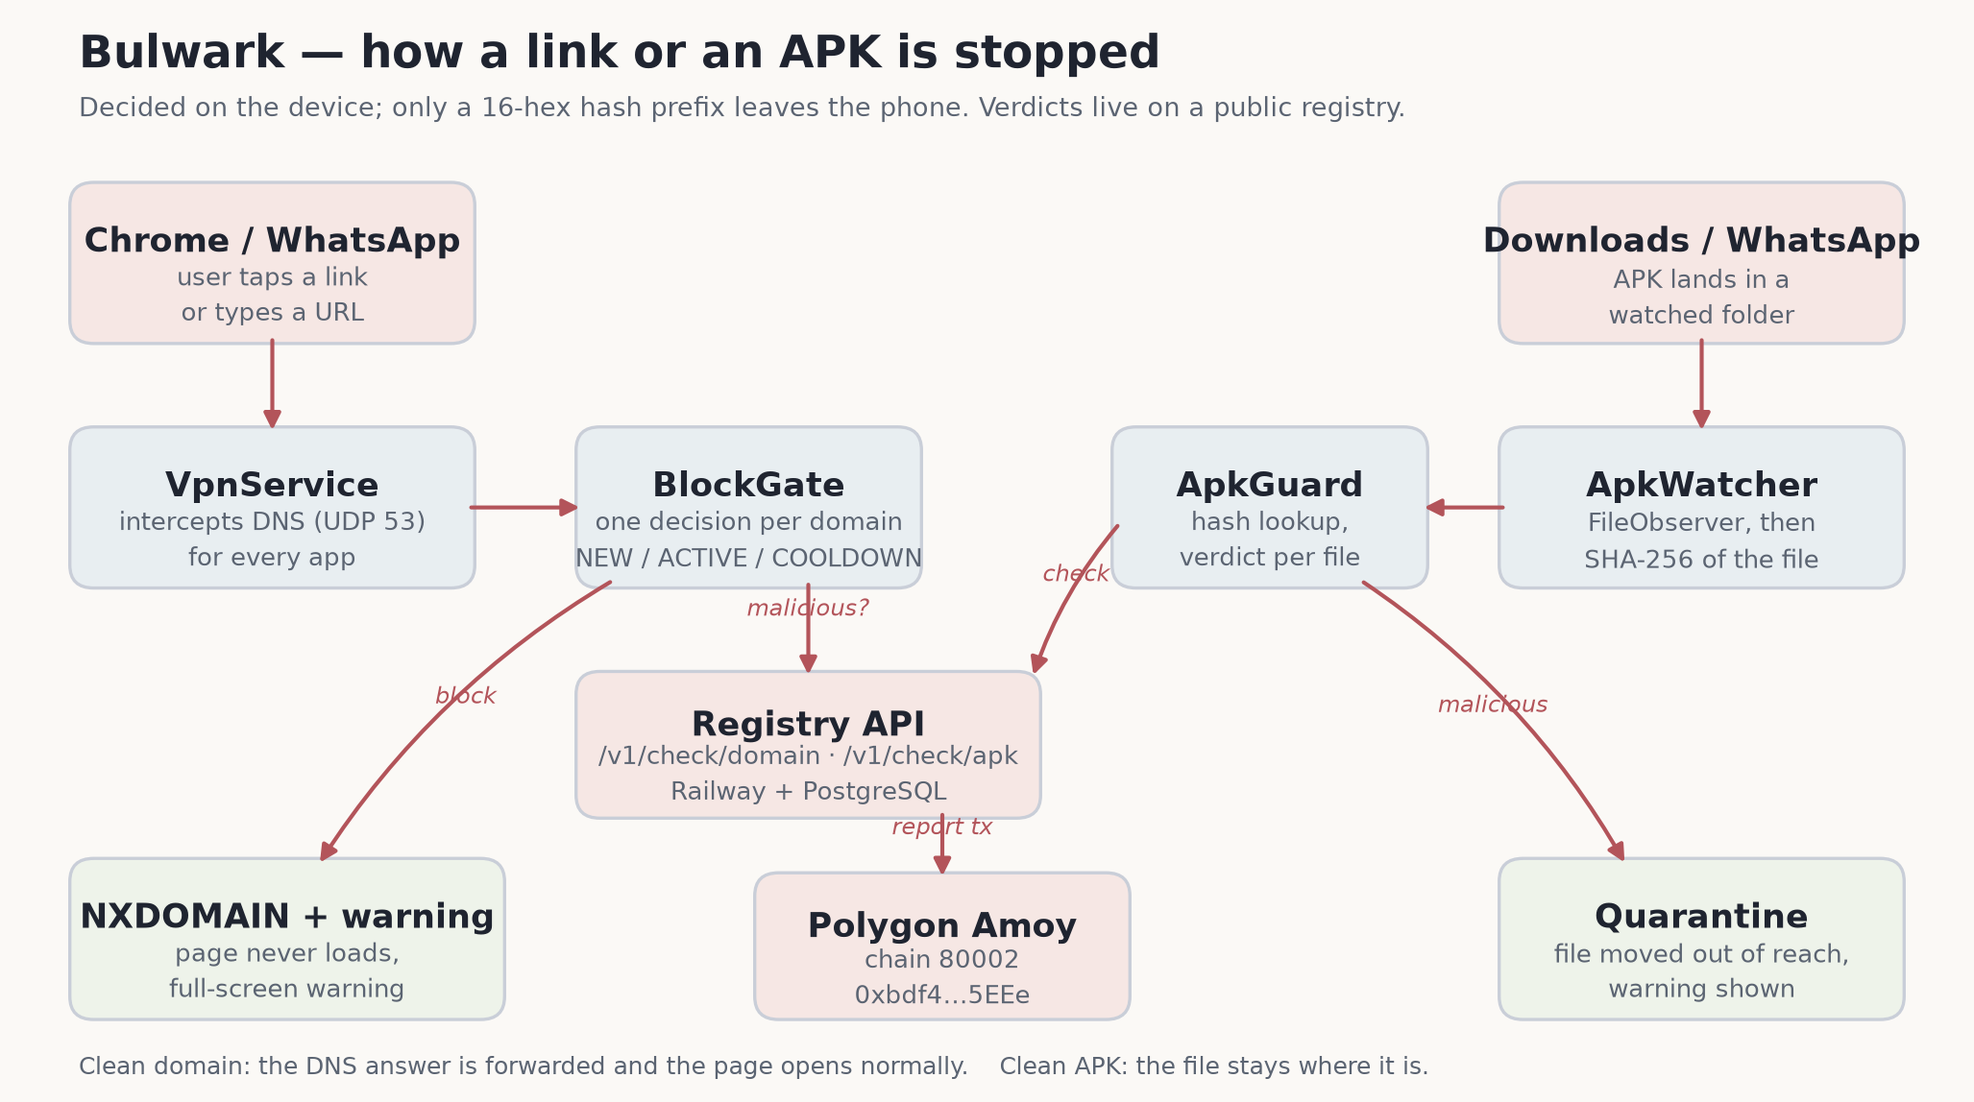
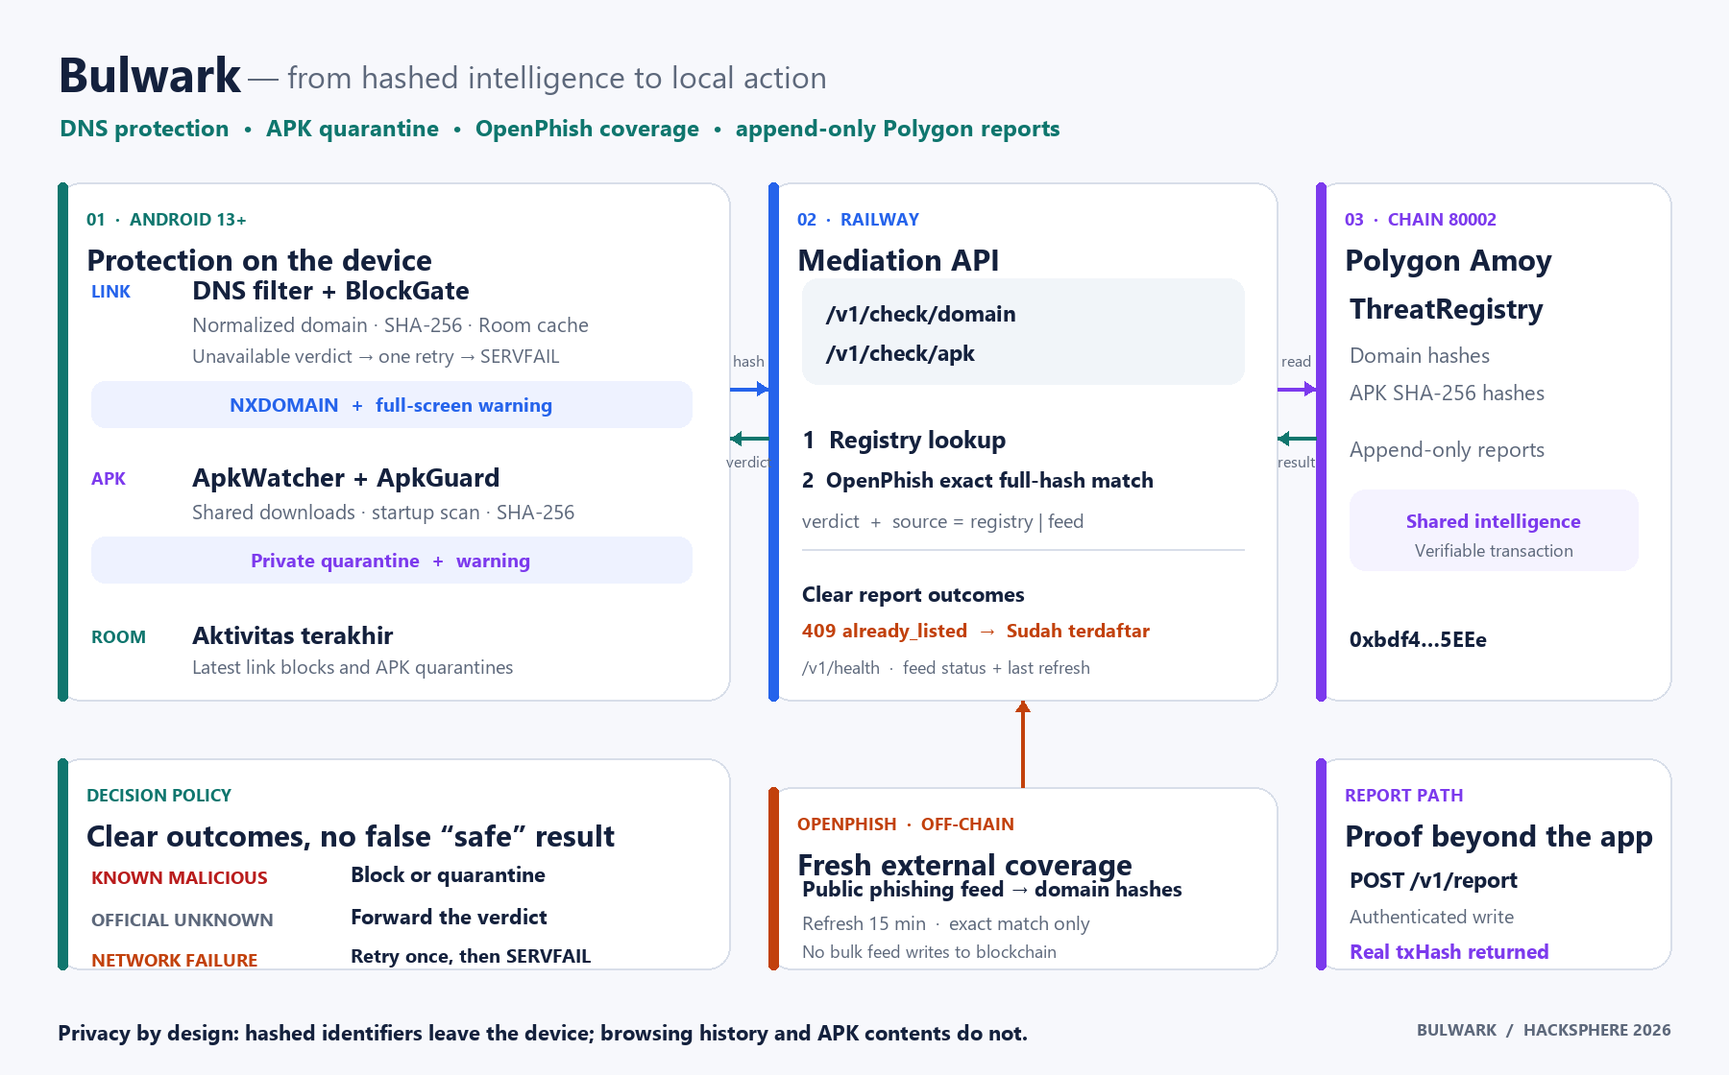
docs: refresh product architecture and evaluation guide

diff --git a/README.md b/README.md
@@ -1,162 +1,202 @@
-# Bulwark
+<div align="center">
 
-**Stop scams before the tap.**
+# 🛡 Bulwark
+### Protection before the tap becomes a compromise.
 
-Bulwark is an Android shield that closes scam links at the DNS layer and moves known-malicious APKs into quarantine before they can be installed. Verdicts live in a public, append-only registry on Polygon Amoy, so a report from one phone protects every phone that runs Bulwark.
+**An Android security companion that warns users about known scam links, quarantines known-malicious APK downloads, and turns new reports into shared threat intelligence.**
 
-Hacksphere 2026 · Team *Aku Mau Skin Kuronami Vandal*
+Built for **Hacksphere 2026** · Team *Aku Mau Skin Kuronami Vandal* · Android 13+ · Kotlin · Node.js · Polygon Amoy
 
----
+[Download the app](https://github.com/royaldinan/Bulwark/releases/latest/download/bulwark-demo.apk) · [Architecture](#architecture) · [Live API](https://bulwark-production-d29c2d86.up.railway.app/v1/health) · [Registry contract](https://amoy.polygonscan.com/address/0xbdf4a4db5C00f2172435940efD8f460ff8f15EEe)
 
-## Download the demo build
-
-[**bulwark-demo.apk**](https://github.com/royaldinan/Bulwark/releases/latest/download/bulwark-demo.apk) · Android 8.0+ · `id.bulwark`
-
-Install it, open the app once, and grant the three permissions it asks for: VPN, display over other apps, and all-files access. The tunnel starts immediately; the home screen shows *Perlindungan aktif*.
-
-This is a debug-signed demo build pointed at the live Railway API. Source builds are described under [Quick start](#quick-start).
+</div>
 
 ---
 
-## The problem
+## Why Bulwark
+
+A single WhatsApp message can move a victim from a familiar chat to a fake giveaway, a credential-harvesting page, or an APK download in seconds. Centralized blocklists protect a browser; Bulwark brings the decision closer to the person and lets every user strengthen the same shared registry.
 
 | Signal | Value |
 | --- | --- |
 | Reported scam losses in Indonesia (14 months) | **IDR 9.1T**, under 2% recovered |
-| Scam links that arrive through chat apps | **89%** via WhatsApp |
-| People who feel confident they can spot a scam, yet were scammed | **31%** |
-| Adults who met a scam in the last 12 months | **66%** |
-
-Blocklists exist, but they act *after* someone reports. The tap happens first — and an APK installed once can read SMS OTPs in seconds. Bulwark checks at the moment a connection or a file arrives, not when the user becomes suspicious.
+| Scam links arriving through chat apps | **89%** via WhatsApp |
+| Adults who encountered a scam in the last 12 months | **66%** |
 
 Sources: OJK IASC (2026), GASA State of Scams Indonesia 2025, PANDI IDADX Q4 2025, APJII 2025.
 
----
+## What the MVP delivers
 
-## How it works
+| Protection | User experience | Enforcement |
+| --- | --- | --- |
+| **Scam-link protection** | A full-screen warning appears over the current app. The user can return to safety or make an informed choice to continue. | A local DNS filter answers known-malicious domains with NXDOMAIN and deduplicates repeated warnings. |
+| **APK download quarantine** | A clear warning identifies the threat without technical jargon. | A known-malicious APK is removed from the watched download location and moved to app-private quarantine so the installer cannot open the original file. |
+| **Expanded threat coverage** | Protection benefits from intelligence beyond reports made by Bulwark users. | Registry lookups are complemented by an off-chain OpenPhish domain index using exact SHA-256 matches. |
+| **Resilient verdict handling** | A temporary network problem is not silently presented as a safe result. | An unavailable verdict receives one bounded retry, then fails safely; an official UNKNOWN verdict remains distinct. |
+| **Useful report feedback** | Duplicate submissions show **“Sudah terdaftar”**, not a misleading connection error. | The API returns a dedicated `409 already_listed` outcome while preserving real registry errors. |
+| **Recent protection activity** | The home screen shows the latest link blocks and APK quarantines with their source and time. | Events come from Room on the device, not hardcoded dashboard data. |
 
-**1 · Detect**
-A local `VpnService` tunnel receives every DNS lookup on the device. A `FileObserver` watches the Download folder and the WhatsApp documents folder; each new `.apk` is hashed with streaming SHA-256.
+## Product preview
 
-**2 · Decide**
-The device cache answers in milliseconds. On a miss the app asks the registry through the mediation API. Only a 16-hex prefix of the hash leaves the phone; unknown domains are forwarded to the upstream resolver untouched.
-
-**3 · Act**
-- **Link:** no DNS answer is returned, so the page never loads. A full-screen warning names the domain and offers *stay safe* or *continue at your own risk* (a 5-minute pass, then the gate blocks again).
-- **APK:** a malicious package is moved out of the folder into the app's private quarantine, so it can never be installed.
-- **Report:** a domain or APK hash submitted from the app becomes a public on-chain entry with a real transaction hash.
-
----
+<p align="center">
+  <img src="docs/screens/home.png" width="46%" alt="Bulwark home and protection status" />
+  <img src="docs/screens/warning.png" width="46%" alt="Bulwark malicious link warning" />
+</p>
 
 ## Architecture
 
-![Bulwark architecture: DNS interception and APK watcher feeding on-device decisions, the registry API and Polygon Amoy](docs/architecture.png)
+![Bulwark system architecture](docs/architecture.png)
 
-**Android** — Kotlin, Jetpack Compose, Room, `VpnService`, `FileObserver`, streaming SHA-256.
-**Backend** — Node.js/Express mediation API in front of the registry, in-process cache, request validation, rate limiting.
-**Contracts** — `Registry.sol`: append-only verdicts, owner-gated writes, no delete path.
+### From a link to a decision
 
----
+1. An app resolves a domain through Bulwark’s local, permission-based DNS filter.
+2. The domain is normalized and hashed with SHA-256. The device checks its Room cache before making a network request.
+3. The mediation API checks the shared Polygon Amoy registry. On a registry miss, it checks the current OpenPhish domain-hash index.
+4. A known-malicious verdict returns a warning and NXDOMAIN. A verified verdict is cached for subsequent lookups.
+5. A transient unavailable verdict is retried once; it is never cached as UNKNOWN.
 
-## On a real phone
+### From an APK download to quarantine
 
-<table>
-<tr>
-<td width="50%"><img src="docs/screens/home.png" alt="Bulwark home: protection active, blocked links and quarantined APKs"><br><sub>Home: protection active, live counters.</sub></td>
-<td width="50%"><img src="docs/screens/warning.png" alt="Bulwark warning: high-risk link with the domain name"><br><sub>Warning: the domain is named before the page loads.</sub></td>
-</tr>
-</table>
+1. `ApkWatcher` observes supported shared download folders, including folders created after protection starts.
+2. New and already-present APKs are hashed locally with SHA-256.
+3. `ApkGuard` checks the hash against the shared registry and caches the result.
+4. A known-malicious file is moved into app-private quarantine and recorded in Room. The user sees a warning and the event appears under **Aktivitas terakhir**.
 
-Every claim below was executed on an Infinix X6853 (Android 14) with the tunnel connected (`VPN CONNECTED extra: VPN:id.bulwark`); each result is backed by a screen dump **and** a logcat line or a database row.
+### Shared intelligence, without putting every feed entry on-chain
 
-| What | Result |
+The Polygon registry stores community-reported domain and APK hashes. OpenPhish is imported into an off-chain exact-hash index and refreshed every 15 minutes. This keeps lookups fast while retaining an append-only, independently verifiable reporting trail.
+
+The phone sends hashed identifiers to the mediation API—not browsing history or APK contents. Link events, APK events, cache entries, and recent activity remain in the device’s Room database.
+
+## Live, verifiable evidence
+
+| Check | Result |
 | --- | --- |
-| Scam link in Chrome | Blocked at DNS (`NXDOMAIN`), full-screen warning, `link_event` saved, counter +1 |
-| Scam link tapped inside WhatsApp | Same block, warning opens over the chat, `link_event` saved |
-| Repeat visits | Warning returns on every new visit; 15-second cooldown after closing, never extended by suppressed queries |
-| Malicious APK in Download | Moved to quarantine, warning shown, `apk_event` recorded, counter +1 |
-| Malicious APK in the WhatsApp documents folder | Same path, quarantined before it could be opened |
-| APK picker | Picks the file, shows its SHA-256, sends only the hash |
[1 lines of base64/hex data omitted]
-| Control | `google.com` and normal traffic keep working with no warning |
-| Unit tests | 41 tests, 0 failures (`./gradlew testDebugUnitTest`) |
+| Android automated suite | **60 JVM tests passing** across DNS decisions, retry behavior, reporting, recent activity, and APK watching |
+| Backend automated suite | **33 tests passing** across registry mediation, OpenPhish ingestion, health reporting, and duplicate handling |
+| Android build | **assembleDebug — BUILD SUCCESSFUL** |
+| WhatsApp link scenario | Scam simulation link received in WhatsApp resolves through Bulwark and opens the warning experience |
+| Chrome APK scenario | Owner-confirmed on Infinix Note 40: the downloaded fixture was quarantined and the Android installer did not open |
+| OpenPhish integration | Live API returned `malicious / feed` for an OpenPhish domain that was previously `unknown / none` in Bulwark |
+| Duplicate report | Live API returns **HTTP 409** with `{"error":"already_listed"}` |
+| On-chain proof | [Verified Polygon Amoy transaction](https://amoy.polygonscan.com/tx/0x9603e19c40de89d28a39db04208c66c912c886a34dd2df90d76d2730d929754d) |
+| APK fixture registration | [Verified Polygon Amoy transaction](https://amoy.polygonscan.com/tx/0xb2ce6f3be64fb652b5913b4db80a2057232dcd6e7847385290f15446046a9764) |
 
----
+## Try the evaluation build
 
-## Quick start
+**Requirements:** Android 13 or newer. Enable Chrome’s standard network mode and allow Bulwark’s local connection filter, warning display, and file-access permissions during onboarding.
 
-### Android app
+1. Download **[bulwark-demo.apk](https://github.com/royaldinan/Bulwark/releases/latest/download/bulwark-demo.apk)** from the latest release.
+2. Complete the three-step onboarding and activate protection.
+3. Send the safe simulation page to yourself on WhatsApp: <https://bulwark-simulasi-scam.netlify.app>.
+4. Tap the link and observe the warning. The site is a controlled simulation, not a real scam.
+5. For APK quarantine, send the harmless **[HadiahGratis.apk](https://github.com/royaldinan/Bulwark/releases/latest/download/HadiahGratis.apk)** link through WhatsApp, open it in Chrome, and download it.
+6. Open **Aktivitas terakhir** in Bulwark to inspect the recorded protection event.
 
-```bash
-# JDK 21 and an Android SDK are required (Gradle 8.9 does not run on JDK 25)
-cd android
-echo "sdk.dir=/path/to/Android/Sdk" > local.properties
-echo "API_SHARED_TOKEN=<token from the backend operator>" >> local.properties
-./gradlew testDebugUnitTest assembleDebug
-adb install -r app/build/outputs/apk/debug/app-debug.apk
-adb shell am start -n id.bulwark/.MainActivity
+The fixture is a harmless, permission-free application with package ID `id.bulwark.fixture.hadiah`. Its SHA-256 is intentionally registered as malicious solely to exercise the protection flow:
+
+```text
[1 lines of base64/hex data omitted]
 ```
 
-Grant the three permissions Bulwark asks for (VPN, display over other apps, all-files access), then open the app once so the tunnel starts. Turn Chrome's *Secure DNS* off and make sure no other VPN is active.
+## Run locally
+
+### Android
+
+Requirements: **JDK 21**, Android SDK 36.
+
+Create the gitignored `android/local.properties`:
+
+```properties
+sdk.dir=C\:\Users\<you>\AppData\Local\Android\Sdk
+API_BASE_URL=https://bulwark-production-d29c2d86.up.railway.app
+API_SHARED_TOKEN=<report-token>
+```
+
+Then build and test:
+
+```bash
+cd android
+./gradlew testDebugUnitTest assembleDebug
+```
+
+The APK is generated at `android/app/build/outputs/apk/debug/app-debug.apk`.
 
 ### Backend
 
 ```bash
 cd backend
-cp .env.example .env      # PORT, AMOY_RPC_URL, REGISTRY_ADDRESS, API_SHARED_TOKEN, PRIVATE_KEY
+cp .env.example .env
+# Fill AMOY_RPC_URL, REGISTRY_ADDRESS, API_SHARED_TOKEN and PRIVATE_KEY.
 npm install
-npm start
+npm test
+npm run dev
 ```
 
-Live deployment: `https://bulwark-production-d29c2d86.up.railway.app`
+Health endpoint: <https://bulwark-production-d29c2d86.up.railway.app/v1/health>. Its `feed` object reports the provider, entry count, last refresh, and any refresh error.
 
-### Contracts
+### Smart contract
 
 ```bash
 cd contracts
+cp .env.example .env
 npm install
 npx hardhat test
-node scripts/deploy.js     # deploys Registry.sol to Polygon Amoy (80002)
 ```
-
----
 
 ## API
 
-| Method | Path | Body | Notes |
+Base URL: `https://bulwark-production-d29c2d86.up.railway.app`
+
+| Method | Endpoint | Request body | Purpose |
 | --- | --- | --- | --- |
-| `GET` | `/v1/health` | — | `{ok, chainId, network, contractAddress}` |
-| `POST` | `/v1/check/domain` | `{"prefix":"0x<16 hex>","hash":"0x<64 hex>"}` | `verdict`, `source`, `txHash?` |
-| `POST` | `/v1/check/apk` | `{"prefix":"0x<16 hex>","sha256":"0x<64 hex>"}` | `verdict`, `source` |
-| `POST` | `/v1/report` | `{"kind":"domain"\|"apk","hash":"0x<64 hex>"}` | requires `x-api-token`; returns `txHash` |
+| `GET` | `/v1/health` | — | API, registry, and OpenPhish feed health |
+| `POST` | `/v1/check/domain` | `{"prefix":"0x…16 hex","hash":"0x…64 hex"}` | Exact domain verdict from registry or feed |
+| `POST` | `/v1/check/apk` | `{"sha256":"0x…64 hex"}` | APK SHA-256 verdict |
+| `POST` | `/v1/report` | `{"kind":"domain" or "apk","hash":"0x…64 hex"}` + `x-api-token` | Append a report and return its real `txHash` |
 
-**Registry contract:** `0xbdf4a4db5C00f2172435940efD8f460ff8f15EEe` on Polygon Amoy (chain 80002).
-
----
-
-## Repository layout
-
-```
-android/    Kotlin app: VPN tunnel, DNS decision core, warning activity, APK guard, Compose UI
-backend/    Express mediation API in front of the registry
-contracts/  Registry.sol, Hardhat config and Amoy deploy script
-docs/       Architecture diagram, screenshots, product notes, API contract
+```bash
+curl https://bulwark-production-d29c2d86.up.railway.app/v1/health
 ```
 
----
+## On-chain registry
+
+| Item | Value |
+| --- | --- |
+| Contract | [`Registry.sol`](contracts/contracts/Registry.sol) |
+| Address | [`0xbdf4a4db5C00f2172435940efD8f460ff8f15EEe`](https://amoy.polygonscan.com/address/0xbdf4a4db5C00f2172435940efD8f460ff8f15EEe) |
+| Network | Polygon Amoy · chain ID `80002` |
+| Write path | Android → Railway API → Amoy transaction receipt |
+| Domain read path | Room cache → Railway API → Amoy registry → OpenPhish exact-hash index |
+
+## Repository map
+
+```text
+android/                 Kotlin · Jetpack Compose · Room · DNS filtering · APK quarantine
+  app/src/test/          JVM regression suites
+  fixture/               Harmless APK quarantine fixture
+backend/                 Express mediation API · OpenPhish index · registry writes
+contracts/               Solidity ThreatRegistry · Hardhat tests · deployment scripts
+docs/                    Architecture · product requirements · team · real screenshots
+```
 
 ## Team
 
-| Person | Focus |
+| Contributor | Area |
 | --- | --- |
-| **Ferdinand Manurung** ([`royaldinan`](https://github.com/royaldinan)) | Android core — VPN tunnel, DNS gate, on-device testing |
-| **Abyan Nur Zaky** ([`anzuky1`](https://github.com/anzuky1)) | Backend mediation API and Polygon Amoy contracts |
-| **Mario Gabriel Santoso** ([`MarioGess`](https://github.com/MarioGess)) | Compose UI, file watching, APK quarantine |
+| [Ferdinand Manurung](https://github.com/royaldinan) | Team lead · Android protection core · DNS decisions · on-device verification |
+| [Abyan Nur Zaky](https://github.com/anzuky1) | Backend · smart contract · Railway · Polygon Amoy integration |
+| [Mario Gabriel Santoso](https://github.com/MarioGess) | Compose UI · onboarding · APK monitoring and quarantine experience |
 
----
+See [docs/TEAM.md](docs/TEAM.md) for engineering conventions and [docs/PRD.md](docs/PRD.md) for product requirements.
 
 ## License
 
 [MIT](LICENSE) © 2026 Ferdinand Manurung, Abyan Nur Zaky, Mario Gabriel Santoso
 
-Hacksphere 2026 · Polygon Amoy (chain 80002) · Railway deployment
+---
+
+<div align="center">
+<strong>Bulwark — shared intelligence. Local action. A safer next tap.</strong><br/>
+Built for Hacksphere 2026.
+</div>

diff --git a/docs/TEAM.md b/docs/TEAM.md
@@ -1,33 +1,45 @@
-# Team and workflow
+# Team and engineering workflow
 
 ## Contributors
 
 | GitHub | Person | Area |
 | --- | --- | --- |
-| [`royaldinan`](https://github.com/royaldinan) | Ferdinand Manurung (team lead) | `android/`: VpnService, DNS parser and decision core, Room cache, warning activity, on-device testing |
-| [`anzuky1`](https://github.com/anzuky1) | Abyan Nur Zaky | `backend/` and `contracts/`: `Registry.sol`, Hardhat deploy, Express API, Railway |
-| [`MarioGess`](https://github.com/MarioGess) | Mario Gabriel Santoso | `android/`: Compose UI (theme, onboarding, home, report), FileObserver, SHA-256, quarantine |
+| [`royaldinan`](https://github.com/royaldinan) | Ferdinand Manurung (team lead) | Android protection core, DNS decisions, Room cache, warning experience, on-device verification |
+| [`anzuky1`](https://github.com/anzuky1) | Abyan Nur Zaky | `Registry.sol`, Hardhat deployment, Express mediation API, OpenPhish integration, Railway |
+| [`MarioGess`](https://github.com/MarioGess) | Mario Gabriel Santoso | Compose UI, onboarding, home and report flows, APK monitoring and quarantine |
 
-Each person commits under their own GitHub account. Every module has an author who can explain it in Q&A.
+Each module has an owner who can explain its design and verification during Q&A.
 
-## Branching
+## Development workflow
 
-- `main` always builds and always runs.
-- Feature work happens on a branch: `feat/<area>`, fixes on `fix/<area>`.
-- Before pushing, rebase on `origin/main`. No force pushes, no history rewriting.
-- Commit messages follow `type(scope): short summary`, for example `feat(vpn): parse DNS query` or `fix(api): read PORT from env`.
+- `main` is the deployable, reviewable branch.
+- Feature work uses `feat/<area>` and fixes use `fix/<area>`.
+- Changes are submitted through focused pull requests. Existing history is preserved; updates are added through new commits and merge commits.
+- Commit messages follow `type(scope): short summary`, for example `feat(feed): index OpenPhish domains` or `fix(vpn): retry unavailable verdicts`.
+- User-visible values come from Room, the mediation API, or the registry—not hardcoded demo results.
 
 ## Build and test
 
-- `cd android && ./gradlew testDebugUnitTest assembleDebug` — 41 unit tests cover the DNS decision core, the block gate and hashing.
-- `cd backend && npm start` — the API reads `PORT`, `AMOY_RPC_URL`, `REGISTRY_ADDRESS`, `API_SHARED_TOKEN` and `PRIVATE_KEY` from the environment.
-- `cd contracts && npx hardhat test` — registry append and lookup behaviour.
+```bash
+cd android
+./gradlew testDebugUnitTest assembleDebug
 
-Secrets never enter the repository: `local.properties`, `.env` and keys stay out of git, and only `.env.example` with variable names is committed.
+cd ../backend
+npm test
 
-## Fixed facts
+cd ../contracts
+npx hardhat test
+```
+
+The current Android suite contains 60 JVM tests and the backend suite contains 33 tests. The Android build requires JDK 21 and Android SDK 36.
+
+Backend configuration is read from `PORT`, `AMOY_RPC_URL`, `REGISTRY_ADDRESS`, `API_SHARED_TOKEN`, and `PRIVATE_KEY`. Android report configuration is read from the gitignored `android/local.properties`.
+
+Secrets never enter the repository: `local.properties`, `.env`, private keys, and tokens stay out of Git. Only variable names and placeholders belong in example files and documentation.
+
+## Deployed facts
 
 - Repository: <https://github.com/royaldinan/Bulwark>
-- Registry chain: Polygon Amoy, chain ID 80002
-- Contract: `0xbdf4a4db5C00f2172435940efD8f460ff8f15EEe`
-- API: `https://bulwark-production-d29c2d86.up.railway.app`
+- Registry chain: Polygon Amoy, chain ID `80002`
+- Contract: [`0xbdf4a4db5C00f2172435940efD8f460ff8f15EEe`](https://amoy.polygonscan.com/address/0xbdf4a4db5C00f2172435940efD8f460ff8f15EEe)
+- API: <https://bulwark-production-d29c2d86.up.railway.app>

diff --git a/AGENTS.md b/AGENTS.md
@@ -26,7 +26,7 @@ Android app (Kotlin/Compose) that blocks scam links and malicious APKs on-device
 ## Android notes
 - The tunnel is DNS-only: route only the virtual DNS address into the TUN, answer blocked domains with NXDOMAIN, forward safe queries through a `protect()`ed socket.
 - Exclude our own package from the tunnel (`addDisallowedApplication`).
-- Hash everything with SHA-256, use an 8-byte prefix for lookups. Normalize domains first (lowercase, no trailing dot).
+- Hash domains and APKs with SHA-256. Normalize domains first (lowercase, no trailing dot). Domain lookups send the 8-byte prefix and full hash so the backend can require an exact match for both registry and OpenPhish feed verdicts.
 - Blocked domains: one decision per domain from `BlockGate`, one warning activity, one `link_event`, then a 15-second cooldown measured from when the warning closes.
 - The backend expects `0x` + 64 hex characters; the app normalises hashes before every call.
 
